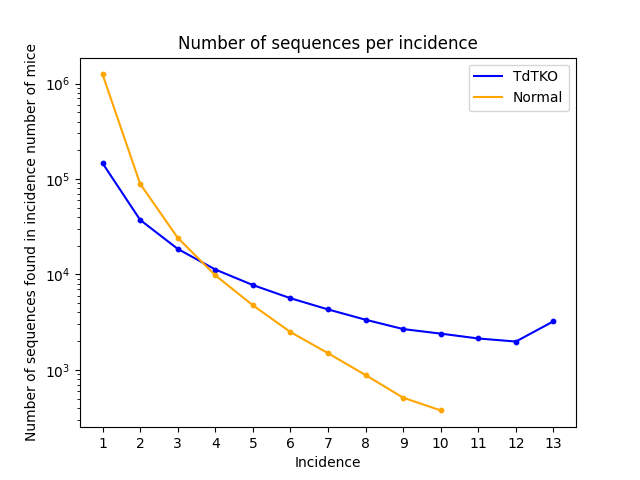
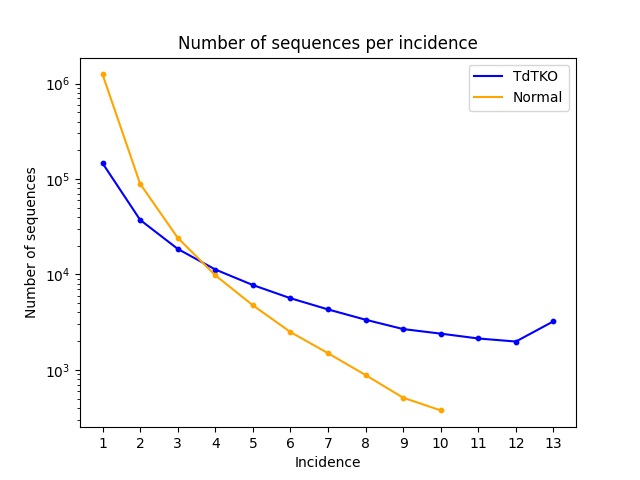
Edited the label of the number_of_seq_per_incidence.png plot

Changed region(s): [[0.0312, 0.0938, 0.0625, 0.9375]]

diff --git a/code/d_per_incidence.py b/code/d_per_incidence.py
@@ -15,7 +15,7 @@ if __name__ == '__main__':
     for file in files:
         max_incidence = mice_per_file[files.index(file)]
         x.append([i for i in range(1, max_incidence + 1)])
-        fract_incidence, seq_per_incidence = get_abundance(file, 'seq[3] >= 0', max_incidence)
+        seq_per_incidence = get_abundance(file, 'seq[3] >= 0', max_incidence)[1]
         mean_d_lengths = []
         for incidence in range(max_incidence):
             incidence_group = seq_per_incidence[incidence]
@@ -35,8 +35,8 @@ if __name__ == '__main__':
     for file in files:
         max_incidence = mice_per_file[files.index(file)]
         x.append([i for i in range(1, max_incidence + 1)])
-        fract_incidences = get_abundance(file, 'seq[3] == 0', max_incidence)
-        y.append(fract_incidences)
+        fract_incidence = get_abundance(file, 'seq[3] == 0', max_incidence)[0]
+        y.append(fract_incidence)
     plot_line_and_scatter_per_incidence(x, y, ['TdTKO', 'Normal'], ['Incidence', 'Percentage of sequences (%)'],
                                         'Inferred D-length = 0 nt',
                                         'C:\\Users\\gabev\\PycharmProjects\\MRP_TdTKO_mice\\img'
@@ -46,8 +46,8 @@ if __name__ == '__main__':
     for file in files:
         max_incidence = mice_per_file[files.index(file)]
         x.append([i for i in range(1, max_incidence + 1)])
-        fract_incidences = get_abundance(file, 'seq[3] <= 2', max_incidence)
-        y.append(fract_incidences)
+        fract_incidence = get_abundance(file, 'seq[3] <= 2', max_incidence)[0]
+        y.append(fract_incidence)
     plot_line_and_scatter_per_incidence(x, y, ['TdTKO', 'Normal'], ['Incidence', 'Percentage of sequences (%)'],
                                         'Inferred D-length <= 2 nt',
                                         'C:\\Users\\gabev\\PycharmProjects\\MRP_TdTKO_mice\\img'

diff --git a/code/plots.py b/code/plots.py
@@ -263,7 +263,7 @@ def number_of_seq_per_incidence():
     plt.yscale('log')
     plt.xticks(numpy.arange(1, 14))
     plt.xlabel('Incidence')
-    plt.ylabel('Number of sequences found in incidence number of mice')
+    plt.ylabel('Number of sequences')
     plt.title('Number of sequences per incidence')
     plt.legend()
     plt.savefig('C:\\Users\\gabev\\PycharmProjects\\MRP_TdTKO_mice\\img\\number_of_seq_per_incidence.png')
@@ -271,5 +271,5 @@ def number_of_seq_per_incidence():
 
 if __name__ == '__main__':
     # plot_supporting_reads()
-    plot_fractions_ins()
-    # number_of_seq_per_incidence()
+    # plot_fractions_ins()
+    number_of_seq_per_incidence()
